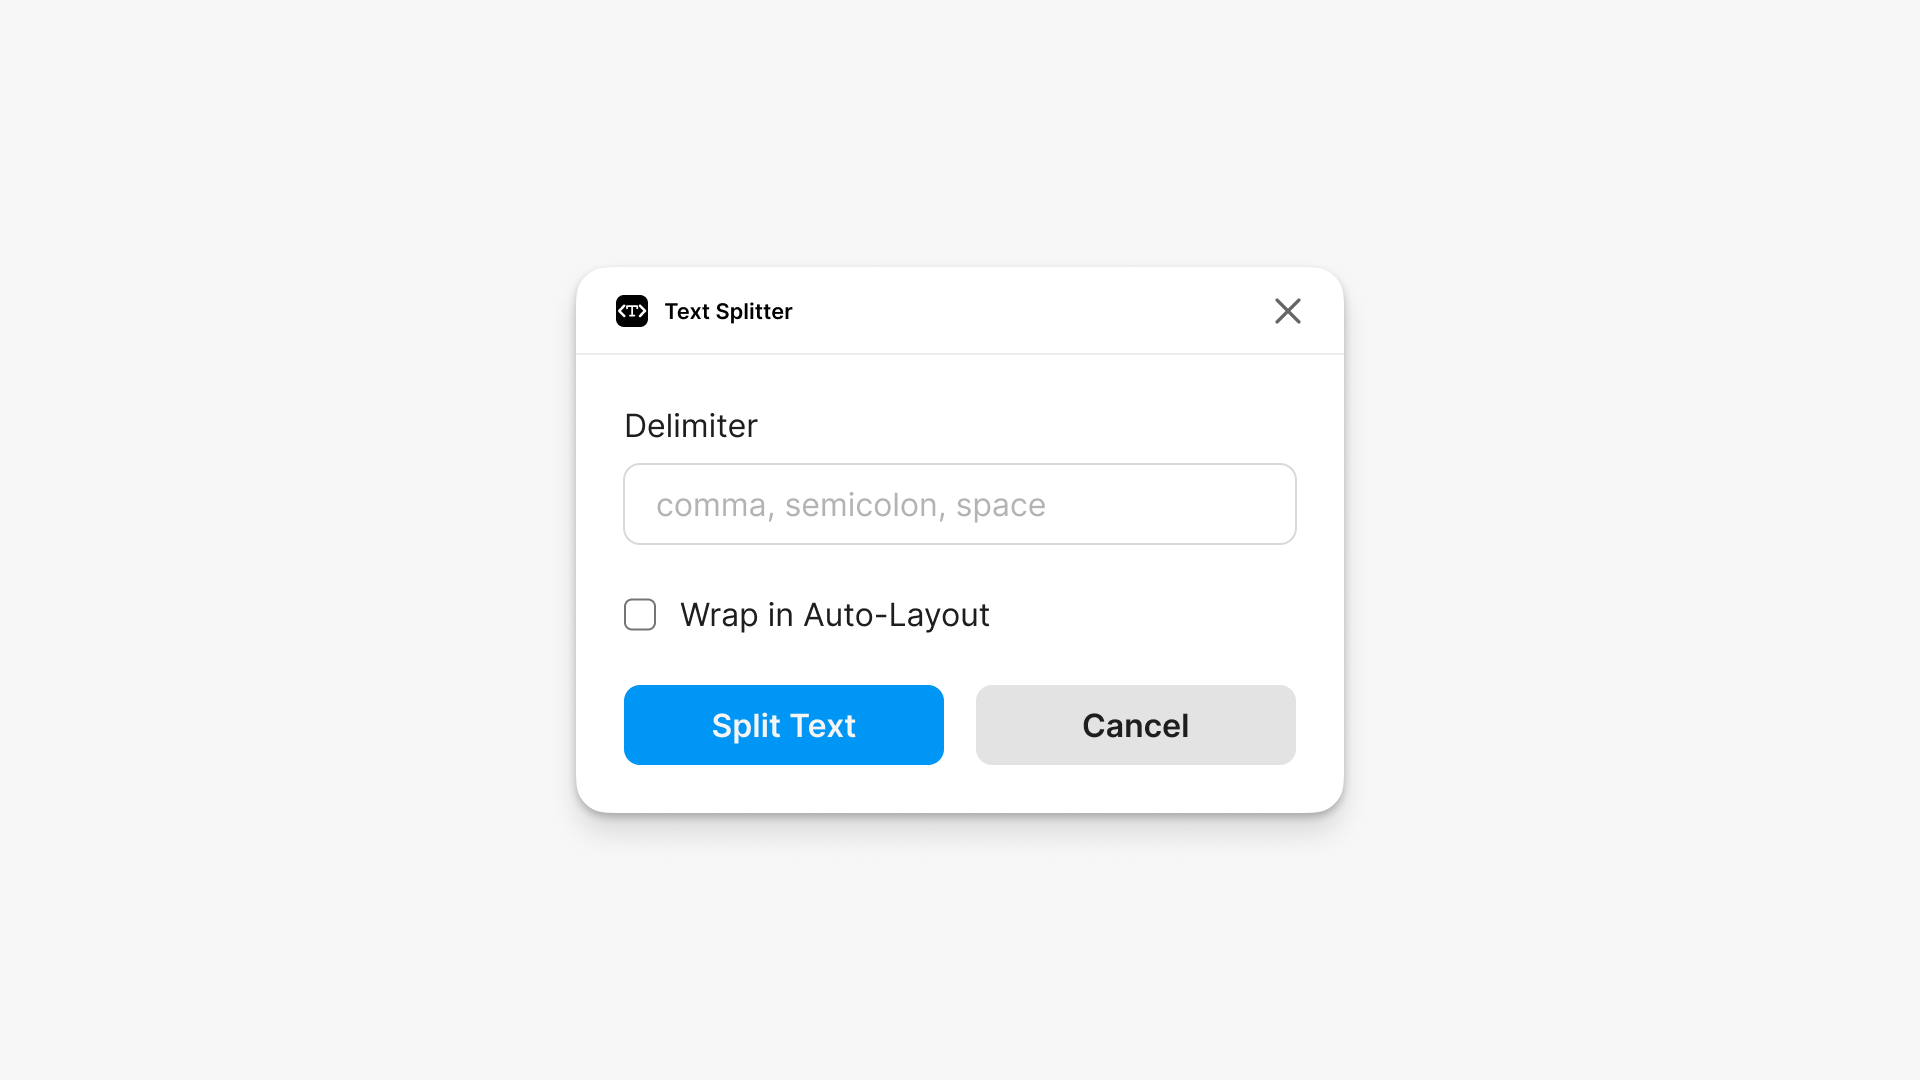
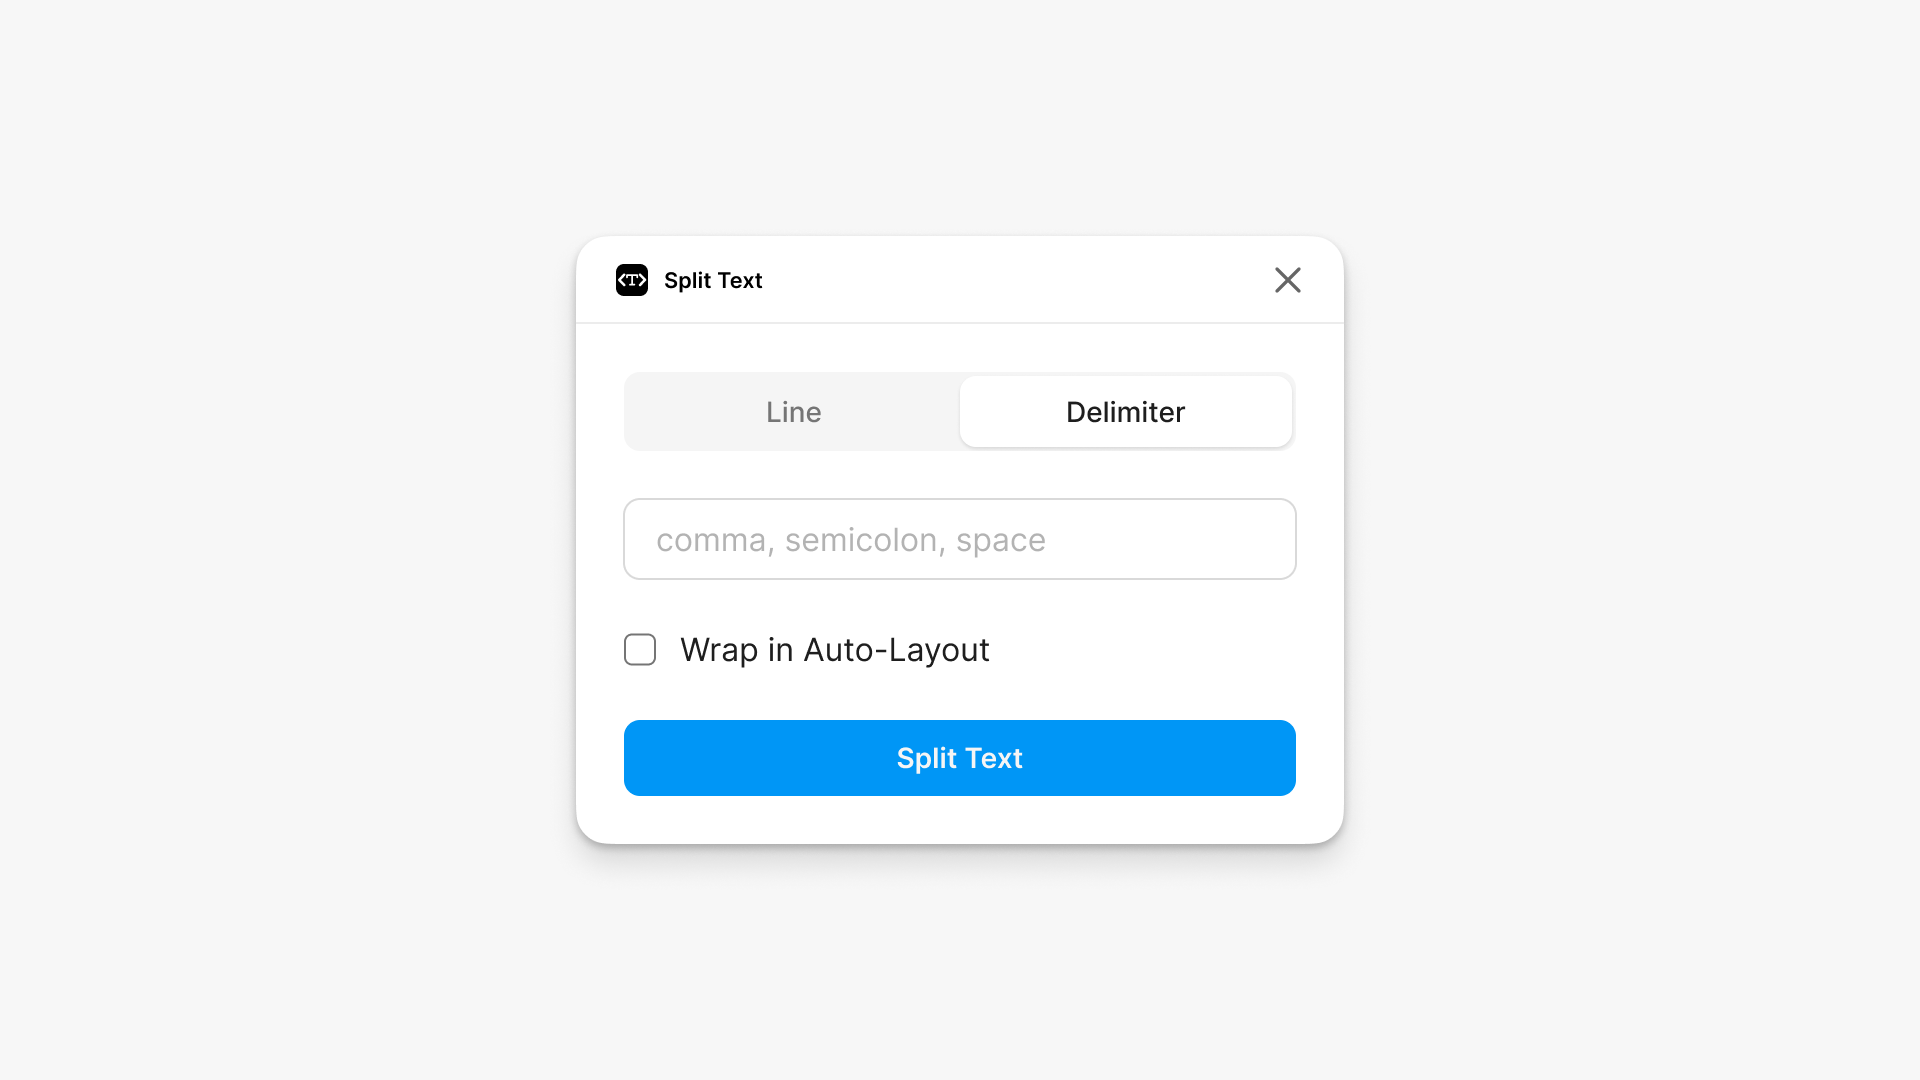
fixed space delimiter

diff --git a/code.ts b/code.ts
@@ -7,8 +7,8 @@ function escapeRegex(str: string): string {
 
 // Extract split logic into a reusable function
 async function performSplit(delimiter: string, wrapInAutoLayout: boolean, stackVertically: boolean = false, isLineSplit: boolean = false) {
-  // Allow newline character even though it's whitespace
-  if (!delimiter || (delimiter.trim() === '' && delimiter !== '\n' && delimiter !== '\r\n')) {
+  // Allow space and newline characters as valid delimiters
+  if (!delimiter || delimiter.length === 0) {
     figma.notify('Please enter a delimiter');
     return;
   }
@@ -310,7 +310,7 @@ figma.on('run', ({ command, parameters }) => {
     const delimiter = parameters.delimiter as string;
     const wrapInAutoLayout = false;
     
-    if (delimiter && delimiter.trim() !== '') {
+    if (delimiter && delimiter.length > 0) {
       performSplit(delimiter, wrapInAutoLayout, false, false);
     } else {
       figma.notify('Please enter a delimiter');
@@ -320,7 +320,7 @@ figma.on('run', ({ command, parameters }) => {
     // Split by newline character with vertical stacking
     performSplit('\n', false, true, true);
   } else {
-    figma.showUI(__html__, { width: 224, height: 188, themeColors: true });
+    figma.showUI(__html__, { width: 272, height: 188, themeColors: true });
   }
 });
 
@@ -341,7 +341,7 @@ figma.ui.onmessage = async (msg) => {
     if (msg.type === 'resize-ui') {
       const height = (msg as any).height as number;
       if (height && height > 0) {
-        figma.ui.resize(224, height);
+        figma.ui.resize(272, height);
       }
     }
     
